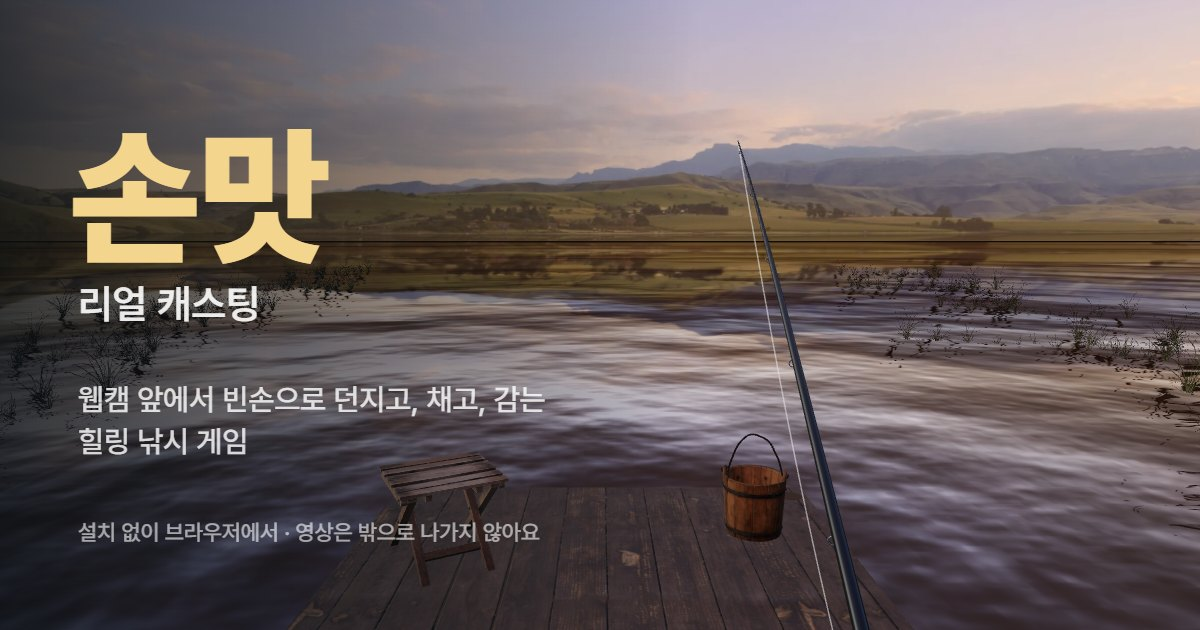
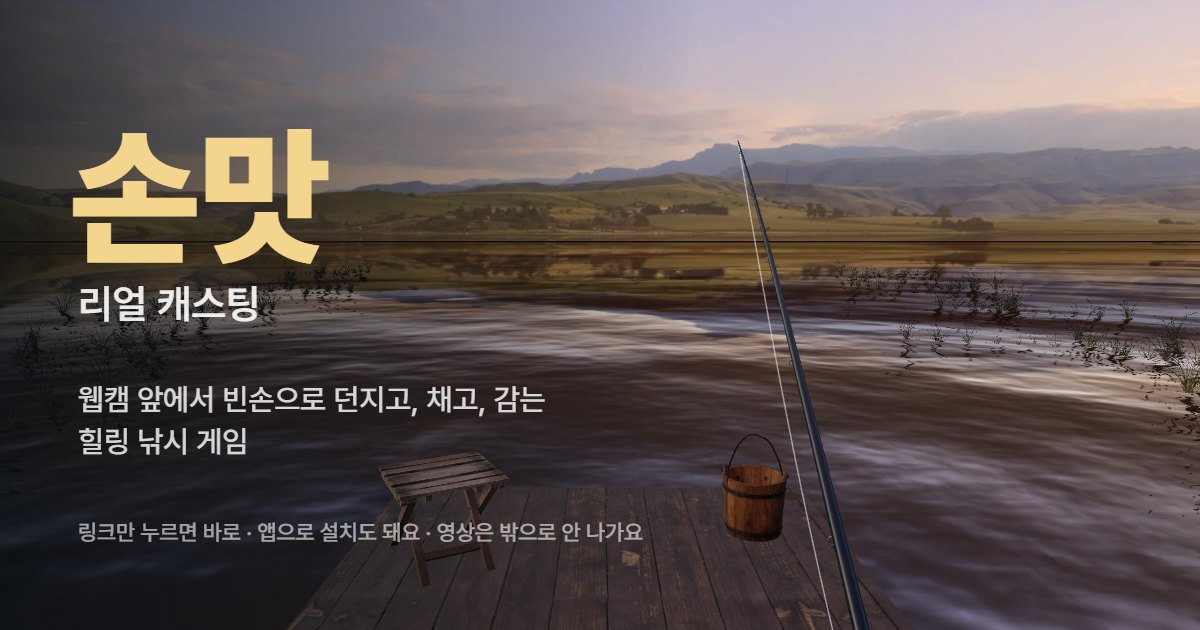
링크 미리보기·설명: "설치 없이" → "링크만 누르면 바로 · 앱으로 설치도 돼요"

diff --git a/index.html b/index.html
@@ -20,12 +20,12 @@
       content="connect-src 'self' blob: data: https://cdn.jsdelivr.net https://storage.googleapis.com; img-src 'self' data: blob:; form-action 'none'; base-uri 'self'"
     />
     <title>손맛: 리얼 캐스팅</title>
-    <meta name="description" content="웹캠 앞에서 빈손으로 던지고, 채고, 감는 힐링 낚시 게임. 저수지·바다·심해·아프리카 강에서 46종(문어·대왕오징어·실러캔스까지), 새 떼 노리기와 버티기, 낮·노을·밤. 설치 없이 링크로, 영상은 브라우저 밖으로 나가지 않아요." />
+    <meta name="description" content="웹캠 앞에서 빈손으로 던지고, 채고, 감는 힐링 낚시 게임. 저수지·바다·심해·아프리카 강에서 46종(문어·대왕오징어·실러캔스까지), 새 떼 노리기와 버티기, 낮·노을·밤. 링크만 누르면 바로(앱으로 설치도 돼요), 영상은 브라우저 밖으로 나가지 않아요." />
     <!-- link previews (KakaoTalk, Discord, Slack, X, Vercel …) -->
     <meta property="og:type" content="website" />
     <meta property="og:site_name" content="손맛: 리얼 캐스팅" />
     <meta property="og:title" content="손맛: 리얼 캐스팅 — 웹캠으로 하는 힐링 낚시" />
-    <meta property="og:description" content="웹캠 앞에서 빈손으로 던지고, 채고, 감는 힐링 낚시 게임. 저수지·바다·심해·아프리카 강에서 46종(문어·대왕오징어·실러캔스까지), 새 떼 노리기와 버티기, 낮·노을·밤. 설치 없이 링크로, 영상은 브라우저 밖으로 나가지 않아요." />
+    <meta property="og:description" content="웹캠 앞에서 빈손으로 던지고, 채고, 감는 힐링 낚시 게임. 저수지·바다·심해·아프리카 강에서 46종(문어·대왕오징어·실러캔스까지), 새 떼 노리기와 버티기, 낮·노을·밤. 링크만 누르면 바로(앱으로 설치도 돼요), 영상은 브라우저 밖으로 나가지 않아요." />
     <meta property="og:url" content="https://sonmat-real-casting.vercel.app/" />
     <meta property="og:image" content="https://sonmat-real-casting.vercel.app/og.jpg" />
     <meta property="og:image:width" content="1200" />

diff --git a/README.md b/README.md
@@ -1,6 +1,6 @@
 # 손맛: 리얼 캐스팅
 
-웹캠 앞에서 **몸으로 던지고, 채고, 감는** 낚시 게임이에요. 설치 없이 브라우저에서 바로 할 수 있어요.
+웹캠 앞에서 **몸으로 던지고, 채고, 감는** 낚시 게임이에요. 링크만 누르면 브라우저에서 바로 할 수 있어요(앱으로 설치도 돼요).
 
 **플레이: https://sonmat-real-casting.vercel.app**
 
